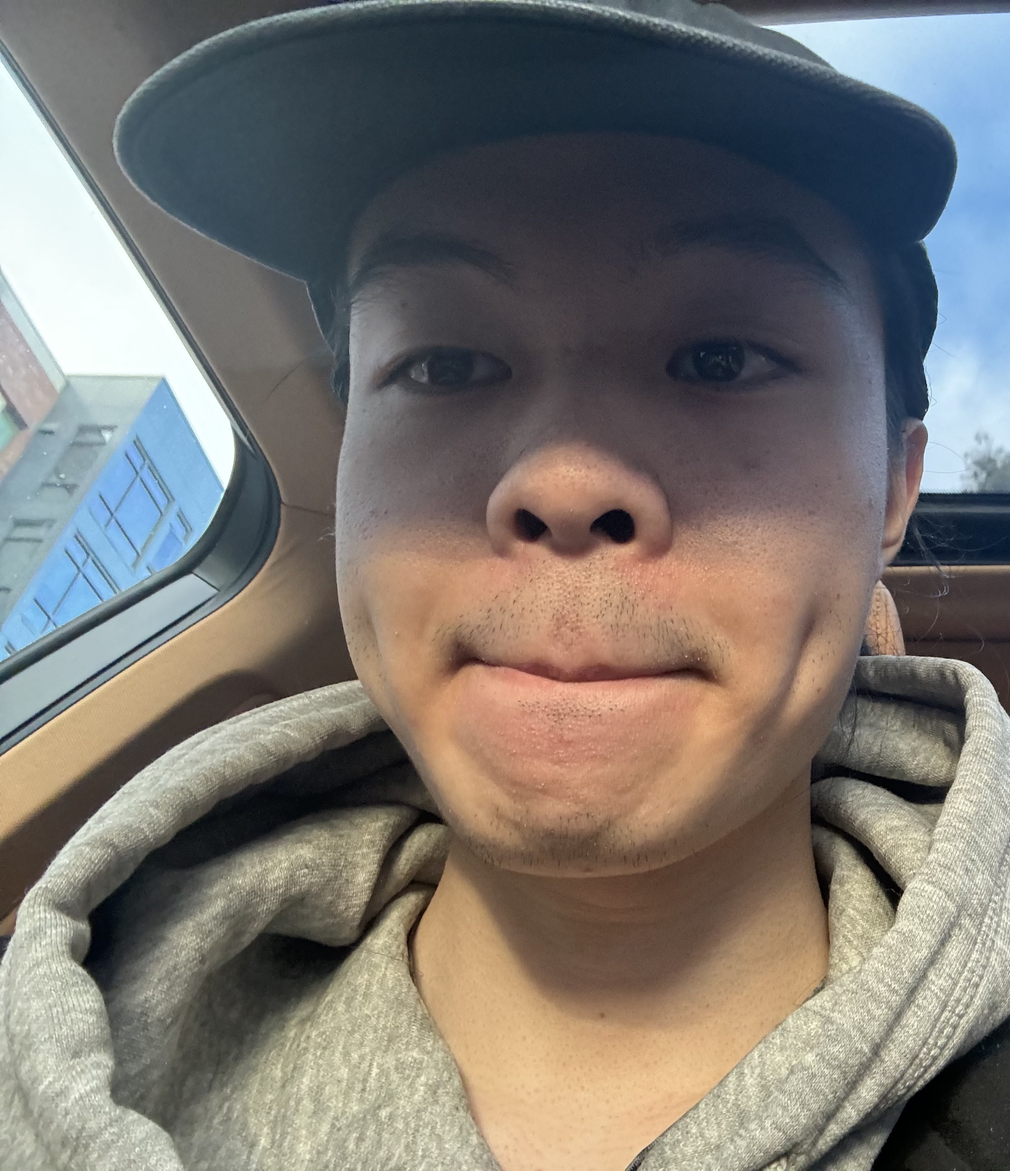
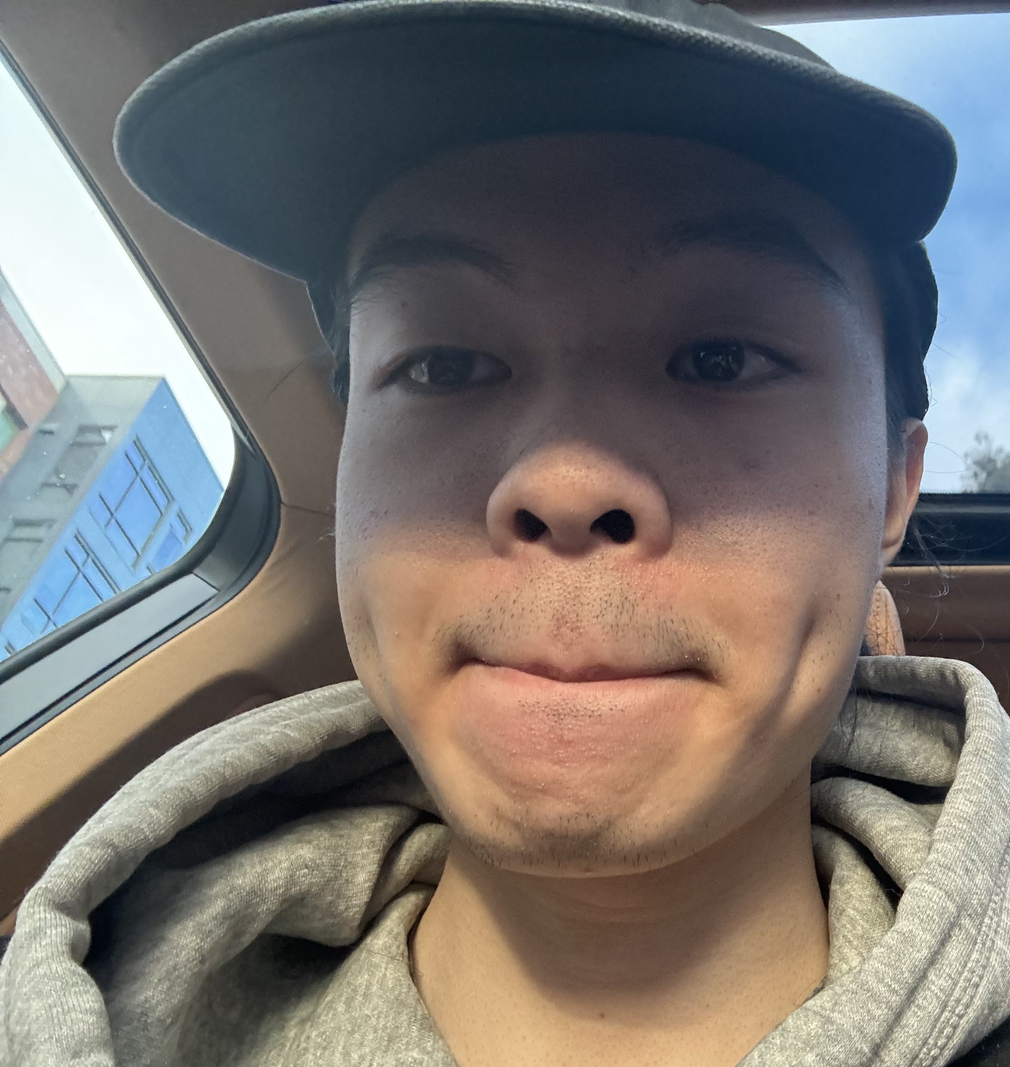
index and pic updated by yuto

diff --git a/application/src/frontend/pages/index.jsx b/application/src/frontend/pages/index.jsx
@@ -8,10 +8,10 @@ import '../AboutUsPage.css'; // Import the CSS file
 //Name of the picture object, and path:
 import Yakoub from '../pics/yak.jpg'
 import Wing from '../pics/wing.jpg'
-import Paige from '../pics/paige.png'
-import Aleia from '../pics/aleia.png'
+import Paige from '../pics/paige.jpg'
+import Aleia from '../pics/aleia.jpg'
 import carlos from '../pics/carlos.jpg'
-
+import yuto from '../pics/yuto.jpg'
 
 const AboutUsPage = () => {
     return (
@@ -25,10 +25,12 @@ const AboutUsPage = () => {
             <div className="team-members-container">
                 <div className="team-member">
                     <h3>Yuto Mori</h3>
-                    <img src="https://cdn.discordapp.com/attachments/835160897696956456/1196185042888708116/IMG_9934.png?ex=65e4d9a2&is=65d264a2&hm=e65e87059ca473dce3dd7cd72a230ba56cdb2fbaa9e1b30df4d82db3de5a1e75&"></img>
+                    <img src={yuto}></img>
                     <p class = "title">Team Leader</p>
                     <p class = "Description">
-                    Senior computer science student.
+                    I am the team leader of this project. I have worked on several personal and commercial projects. My major is in Computer Science, with a minor in Mathematics.
+                     My favorite topic is AI. It is fascinating to see computers overtaking human-level intelligence.
+                  
                     </p>
                     <p><a href ="https://github.com/ymorisfsu" target = "_blank"><button class = "button">GitHub</button></a></p>
                 </div>
